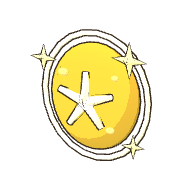
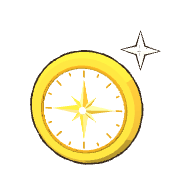
Ferme : nouvelles icones des runes (jeton grave bleu aux chevrons, jeton d'or a l'etoile), version des modeles 20261113b

Changed region(s): [[0.1562, 0.125, 0.8438, 0.875]]

diff --git a/site/ferme/js/09-modeles.js b/site/ferme/js/09-modeles.js
@@ -173,7 +173,7 @@ const draco = new T.DRACOLoader(); draco.setDecoderPath('https://cdn.jsdelivr.ne
 const chargerGlbUneFois = (url) => new Promise((ok, ko) => chargeur.load(url, (gl) => ok(gl.scene), undefined, ko));
 const chargerGlb = (url, essais = 3) => chargerGlbUneFois(url).catch((e) => (essais > 1 ? new Promise((r) => setTimeout(r, 800)).then(() => chargerGlb(url, essais - 1)) : Promise.reject(e))); /* (trois essais : un modele rate ne fait plus planter le jeu plus tard, 16/10/2026) */
 const MODELES = {};
-const VERSION_MODELES = '20261113a'; /* a changer a chaque nouvel export des modeles : sinon le navigateur garde les anciens en cache */
+const VERSION_MODELES = '20261113b'; /* a changer a chaque nouvel export des modeles : sinon le navigateur garde les anciens en cache */
 /* un modele tire d'une planche : on le recentre, on le remet droit, on l'ajuste a la taille voulue (pied au sol, centre en 0) */
 /* comme gabarit, mais a une echelle donnee et centre sur un point donne (non mis a l'echelle) : les 5 niveaux d'un batiment gardent la meme echelle,
    le niveau 1 a la taille d'avant et les suivants grandissent vraiment */

diff --git a/site/ferme/index.html b/site/ferme/index.html
@@ -110,7 +110,7 @@
 <script src="js/06-temps.js?v=c585c27e88"></script>
 <script src="js/07-actions.js?v=d0883c9918"></script>
 <script src="js/08-scene.js?v=f7a00486cb"></script>
-<script src="js/09-modeles.js?v=c2d4fe572b"></script>
+<script src="js/09-modeles.js?v=6e2dfcf8d9"></script>
 <script src="js/10-ciel.js?v=cccc304ae0"></script>
 <script src="js/11-ferme-3d.js?v=f0e3a2bb89"></script>
 <script src="js/12-perso.js?v=4e53c6089a"></script>
